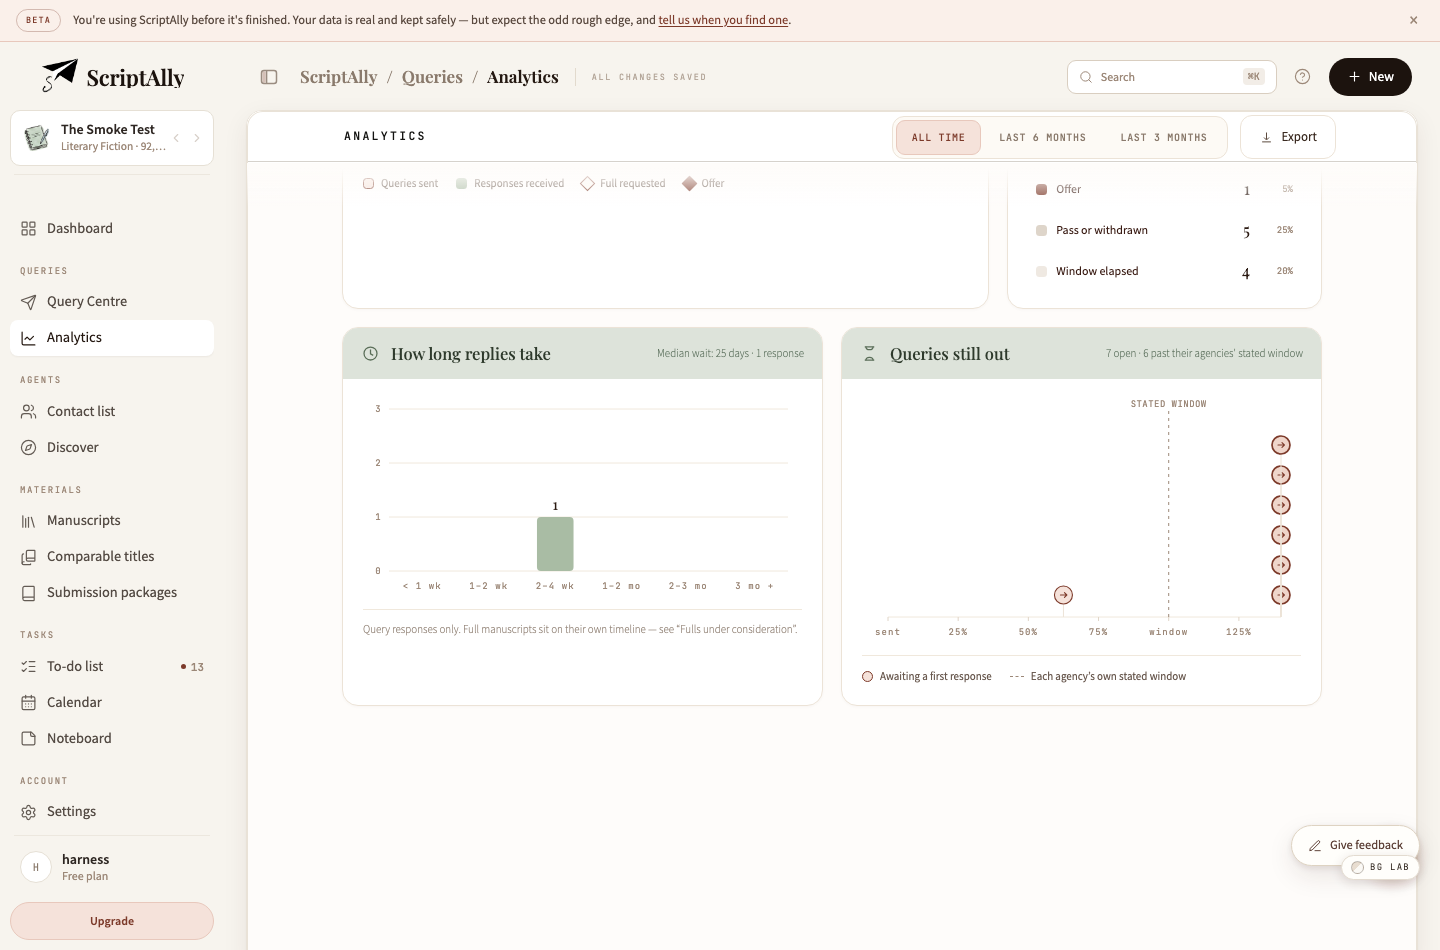
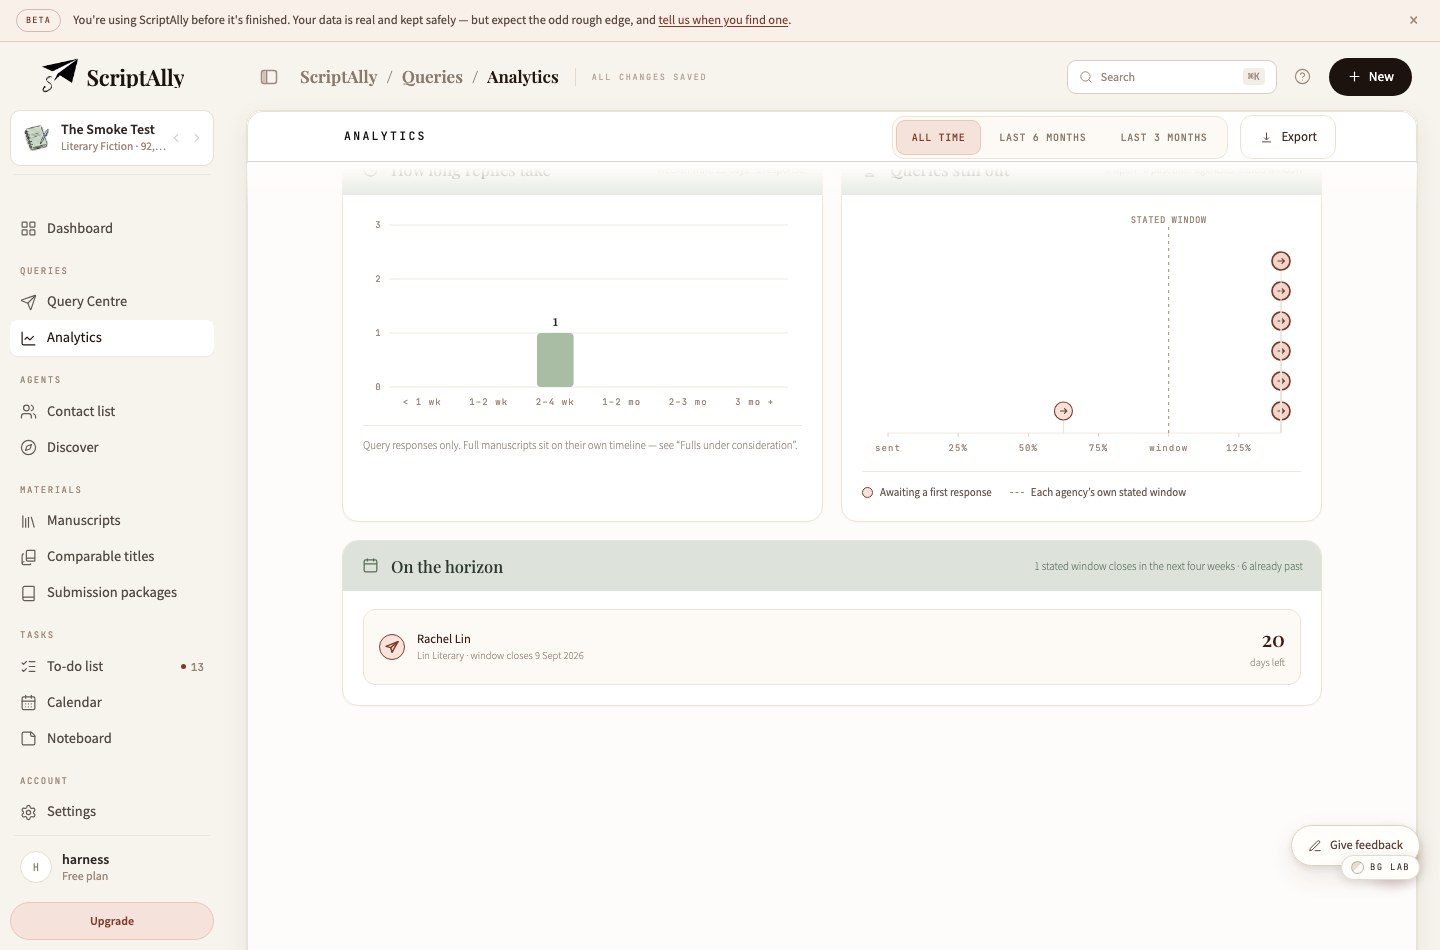
analytics: on the horizon — the stated windows closing next
A full-width panel between the charts and the fulls row: open queries whose agency's own
stated window closes within four weeks, soonest first, each naming the agent, the agency,
the closing date and the days remaining. The band note counts them and — separately —
any window already past.

This phase is BUILT rather than skipped because Step 0 found `Agent.responseTimeWeeks`
(B3). Nothing here hard-codes twelve weeks or any other threshold: a query appears only
when its agent record carries a stated window, and the date shown is that many weeks from
the send. A query whose agent states nothing has no closing date and never appears —
giving it a default would put a date on the page that no agency ever said.

⚠ IT IS A REPORT, NOT A PROMPT, and the spec asserts that. It says which windows close
and when; it never says to nudge, chase, follow up or act. Whether a closing window is
worth doing anything about depends on the agency, the manuscript and the writer's own
nerve, none of which this page can see — and all of which the To-do board already owns.

⚠ ALREADY-PAST WINDOWS ARE COUNTED APART FROM THE COUNTDOWN. Folding them in would make
"closes in 3 days" and "closed a month ago" the same kind of row; one is approaching and
the other has been and gone.

⚠ AND THE PANEL IS ABSENT WHEN IT HAS NOTHING TO SAY, rather than present and empty.
Every other panel reports on history, which exists once there are queries at all; this
[…]

diff --git a/src/components/analytics/horizon.test.tsx b/src/components/analytics/horizon.test.tsx
@@ -1,0 +1,128 @@
+/**
+ * @license
+ * SPDX-License-Identifier: Apache-2.0
+ *
+ * "On the horizon" — the one forward-looking panel.
+ */
+import { describe, it, expect } from "vitest";
+import React from "react";
+import { renderToStaticMarkup } from "react-dom/server";
+import { Agent, Query, QueryStatus } from "../../types";
+import { buildRows, HORIZON_DAYS } from "../../lib/analytics";
+import { Horizon, horizonNote, horizonWorthShowing } from "./Horizon";
+
+const NOW = new Date(2026, 7, 19, 12, 0, 0).getTime();
+const DAY = 86400000;
+const daysAgo = (n: number) => new Date(NOW - n * DAY).toISOString();
+
+let seq = 0;
+const id = () => `h${++seq}`;
+
+const agent = (over: Partial<Agent> = {}): Agent =>
+  ({ id: id(), userId: "u", name: "Alex Fenn", agency: "Fenn Literary", email: "", website: "", ...over }) as Agent;
+
+const query = (agentId: string, over: Partial<Query> = {}): Query =>
+  ({ id: id(), userId: "u", manuscriptId: "m1", agentId, packageId: "", status: QueryStatus.QUERIED,
+     personalisationNotes: "", sendMethod: "Email", ...over }) as unknown as Query;
+
+const build = (qs: Query[], agents: Agent[]) => buildRows(qs, [], agents, NOW);
+const render = (rows: ReturnType<typeof build>) =>
+  renderToStaticMarkup(<Horizon rows={rows} nowMs={NOW} />);
+
+describe("on the horizon", () => {
+  it("lists only the windows closing inside four weeks, soonest first", () => {
+    const a = agent({ responseTimeWeeks: 8 }); // a 56-day window
+    const rows = build(
+      [
+        query(a.id, { dateSent: daysAgo(35) }), // closes in 21 days
+        query(a.id, { dateSent: daysAgo(49) }), // closes in 7 days
+        query(a.id, { dateSent: daysAgo(1) }), // closes in 55 — beyond the horizon
+        query(a.id, { dateSent: daysAgo(80) }), // already past
+      ],
+      [a],
+    );
+    const html = render(rows);
+    const left = [...html.matchAll(/an-hd"><b>(\d+)<\/b>/g)].map((m) => Number(m[1]));
+    expect(left, "the horizon is not listing exactly the two closing soon").toEqual([7, 21]);
+    for (const d of left) expect(d).toBeLessThanOrEqual(HORIZON_DAYS);
+  });
+
+  it("⚠ counts the already-past apart from the countdown, and keeps them out of the list", () => {
+    /* "closes in 3 days" and "closed a month ago" are not the same kind of row. */
+    const a = agent({ responseTimeWeeks: 4 });
+    const rows = build(
+      [query(a.id, { dateSent: daysAgo(21) }), query(a.id, { dateSent: daysAgo(90) }), query(a.id, { dateSent: daysAgo(80) })],
+      [a],
+    );
+    expect([...render(rows).matchAll(/an-hcard/g)]).toHaveLength(1);
+    expect(horizonNote(rows, NOW)).toBe("1 stated window closes in the next four weeks · 2 already past");
+  });
+
+  it("⚠ invents no deadline for an agent who states no window", () => {
+    /* ⚠ NO HARD-CODED TWELVE WEEKS ANYWHERE. A query with no stated window has no closing date,
+       and giving it a default one would put a date on the page that no agency ever said. */
+    const silent = agent({ name: "No Window" });
+    const rows = build([query(silent.id, { dateSent: daysAgo(30) })], [silent]);
+    expect(render(rows)).not.toContain("an-hcard");
+    expect(horizonWorthShowing(rows, NOW)).toBe(false);
+  });
+
+  it("reads the closing date off the agent's OWN stated weeks", () => {
+    /* Two identical sends, two different agencies: the dates must differ by the stated difference
+       rather than by a constant this page chose.
+
+       ⚠ BOTH WINDOWS HAVE TO LAND INSIDE THE HORIZON FOR THIS TO TEST ANYTHING. The first version
+       used 5 and 7 weeks against a 14-day-old send, so the seven-week window closed in 35 days —
+       correctly beyond the four-week list, and the assertion failed on a fixture the panel was
+       right to exclude. 5 and 6 weeks both close inside it. */
+    const fast = agent({ name: "Quick Reader", responseTimeWeeks: 5 });
+    const slow = agent({ name: "Slow Reader", responseTimeWeeks: 6 });
+    const rows = build(
+      [query(fast.id, { dateSent: daysAgo(14) }), query(slow.id, { dateSent: daysAgo(14) })],
+      [fast, slow],
+    );
+    const left = [...render(rows).matchAll(/an-hd"><b>(\d+)<\/b>/g)].map((m) => Number(m[1]));
+    expect(left, "both windows should be inside the four-week list").toHaveLength(2);
+    expect(left).toEqual([21, 28]);
+    expect(left[1] - left[0], "the gap is not the two agencies' stated difference").toBe((6 - 5) * 7);
+  });
+
+  it("names the agent and the agency, and gives a full date", () => {
+    const a = agent({ name: "Rachel Lin", agency: "Lin Literary", responseTimeWeeks: 6 });
+    const html = render(build([query(a.id, { dateSent: daysAgo(30) })], [a]));
+    expect(html).toContain("Rachel Lin");
+    expect(html).toContain("Lin Literary");
+    /* ⚠ WITH THE YEAR. A window closing "9 Sept" is ambiguous the moment one closes next January. */
+    expect(html).toMatch(/window closes \d+ \w+ 20\d\d/);
+  });
+
+  it("⚠ tells the writer nothing to do about it", () => {
+    /* It reports which windows close and when. Whether that is worth acting on depends on the
+       agency, the manuscript and the writer's own nerve — none of which this page can see, and
+       all of which the To-do board is for. */
+    const a = agent({ responseTimeWeeks: 4 });
+    const rows = build([query(a.id, { dateSent: daysAgo(21) }), query(a.id, { dateSent: daysAgo(60) })], [a]);
+    const text = `${render(rows)} ${horizonNote(rows, NOW)}`;
+    for (const prompt of [/\bnudge\b/i, /\bchase\b/i, /\bfollow up\b/i, /\bshould\b/i, /\btime to\b/i,
+                          /\bdon't forget\b/i, /\bremember to\b/i, /\bact\b/i]) {
+      expect(text, `the horizon is prompting rather than reporting: ${prompt}`).not.toMatch(prompt);
+    }
+  });
+
+  it("is not rendered at all when it has nothing to say", () => {
+    const a = agent({ responseTimeWeeks: 12 });
+    const rows = build([query(a.id, { dateSent: daysAgo(2) })], [a]);
+    expect(horizonWorthShowing(rows, NOW)).toBe(false);
+    /* and when something HAS passed, it is worth showing even with an empty countdown */
+    const past = build([query(a.id, { dateSent: daysAgo(200) })], [a]);
+    expect(horizonWorthShowing(past, NOW)).toBe(true);
+    expect(render(past)).toContain("already passed");
+  });
+
+  it("keeps a closed query off the horizon entirely", () => {
+    /* A window only matters while you are still waiting on it. */
+    const a = agent({ responseTimeWeeks: 8 });
+    const rows = build([query(a.id, { status: QueryStatus.REJECTED, dateSent: daysAgo(49) })], [a]);
+    expect(horizonWorthShowing(rows, NOW)).toBe(false);
+  });
+});

diff --git a/src/components/analytics/Horizon.tsx b/src/components/analytics/Horizon.tsx
@@ -1,0 +1,74 @@
+/**
+ * @license
+ * SPDX-License-Identifier: Apache-2.0
+ *
+ * "On the horizon" — the one panel on this page that looks forward.
+ *
+ * ⚠ IT IS STILL A REPORT, NOT A PROMPT. It says which stated windows close in the next four weeks
+ * and when; it does not tell the writer to nudge, chase or follow up. Whether a closing window is
+ * worth acting on depends on the agency, the manuscript and the writer's own nerve, and none of
+ * those is something this page can see. Deciding what to do about it is the To-do board's job.
+ *
+ * ⚠ AND A WINDOW IS THE AGENCY'S OWN STATED FIGURE, NOT A DEADLINE THIS APP INVENTED. Nothing here
+ * hard-codes twelve weeks or any other threshold: a query appears only when its agent record
+ * carries a `responseTimeWeeks`, and the date shown is that number of weeks from the send.
+ *
+ * ⚠ ALREADY-PAST WINDOWS ARE COUNTED APART FROM THE COUNTDOWN, deliberately. Folding them in
+ * would make "closes in 3 days" and "closed a month ago" the same kind of row, and they are not:
+ * one is approaching and the other has been and gone.
+ */
+import React from "react";
+import { StatusDot } from "../StatusDot";
+import { QueryStatus } from "../../types";
+import { AnalyticsRow, HORIZON_DAYS, horizonSet } from "../../lib/analytics";
+import { shortDateYear } from "./chartPlumbing";
+
+export const Horizon: React.FC<{ rows: AnalyticsRow[]; nowMs: number }> = ({ rows, nowMs }) => {
+  const set = horizonSet(rows, nowMs);
+
+  if (set.soon.length === 0) {
+    return (
+      <div className="an-horizonempty">
+        {set.past > 0
+          ? `No stated windows close in the next four weeks. ${set.past} ${set.past === 1 ? "has" : "have"} already passed ${set.past === 1 ? "its" : "theirs"}.`
+          : "No stated windows close in the next four weeks. As one approaches, the query appears here with its date."}
+      </div>
+    );
+  }
+
+  return (
+    <div className="an-horizonrow">
+      {set.soon.map((h) => (
+        <div className="an-hcard" key={h.queryId}>
+          {/* the query is still out, so it is drawn as what it is */}
+          <StatusDot status={QueryStatus.QUERIED} overrideSize={26} decorative />
+          <div className="an-hn">
+            <b>{h.agentName}</b>
+            <i>
+              {h.agentSub ? `${h.agentSub} · ` : ""}window closes {shortDateYear(h.closesMs)}
+            </i>
+          </div>
+          <div className="an-hd">
+            <b>{h.daysLeft}</b>
+            <i>{h.daysLeft === 1 ? "day left" : "days left"}</i>
+          </div>
+        </div>
+      ))}
+    </div>
+  );
+};
+
+/** The band note: how many close soon, and — separately — how many are already past. */
+export function horizonNote(rows: AnalyticsRow[], nowMs: number): string {
+  const set = horizonSet(rows, nowMs);
+  const past = set.past ? `${set.past} already past` : "";
+  if (set.soon.length === 0) return past || `Nothing closing in the next ${HORIZON_DAYS} days`;
+  const soon = `${set.soon.length} stated ${set.soon.length === 1 ? "window closes" : "windows close"} in the next four weeks`;
+  return past ? `${soon} · ${past}` : soon;
+}
+
+/** Whether the panel has anything at all to say — a panel with nothing in it is not rendered. */
+export const horizonWorthShowing = (rows: AnalyticsRow[], nowMs: number): boolean => {
+  const set = horizonSet(rows, nowMs);
+  return set.soon.length > 0 || set.past > 0;
+};

diff --git a/src/components/analytics/analytics.css b/src/components/analytics/analytics.css
@@ -239,3 +239,20 @@
 /* legend keys drawn as the marks they describe, rather than as generic squares */
 .an-swc { width: 11px; height: 11px; border-radius: 50%; flex: none; background: #f5e2da; border: 1px solid #7c3a2a; box-sizing: border-box; }
 .an-swl { width: 14px; border-top: 1px dashed #9c8878; display: inline-block; flex: none; }
+
+/* ── on the horizon ──────────────────────────────────────────────────────────
+   Cards wrap rather than scroll: this is a short list by construction (four weeks of windows),
+   and a horizontal scroller would hide the later dates behind a gesture. */
+.an-horizonrow { display: flex; gap: 14px; flex-wrap: wrap; }
+.an-hcard {
+  flex: 1 1 190px; min-width: 190px; background: #fdfaf5; border: 1px solid #ece3d7;
+  border-radius: 12px; padding: 13px 15px; display: flex; align-items: center; gap: 12px;
+  transition: box-shadow .15s ease;
+}
+.an-hcard:hover { box-shadow: 0 3px 12px rgba(58, 28, 20, 0.08); }
+.an-hn { min-width: 0; }
+.an-hcard b { display: block; font-size: 12.5px; font-weight: 500; white-space: nowrap; overflow: hidden; text-overflow: ellipsis; }
+.an-hcard i { font-style: normal; font-size: 10.5px; color: #9a8c80; font-weight: 300; display: block; }
+.an-hd { margin-left: auto; text-align: right; flex: none; }
+.an-hd b { font-family: var(--font-serif, 'Playfair Display', serif); font-size: 21px; overflow: visible; }
+.an-horizonempty { color: #9a8c80; font-size: 12px; font-weight: 300; padding: 6px 2px; line-height: 1.6; }

diff --git a/src/components/QueryAnalytics.tsx b/src/components/QueryAnalytics.tsx
@@ -42,6 +42,7 @@ import { SendingChart, SENDING_NOTE } from "./analytics/SendingChart";
 import { StatusDonut } from "./analytics/StatusDonut";
 import { ReplyHistogram, histogramNote } from "./analytics/ReplyHistogram";
 import { AgingChart, agingNote } from "./analytics/AgingChart";
+import { Horizon, horizonNote, horizonWorthShowing } from "./analytics/Horizon";
 import {
   AnalyticsRange,
   AnalyticsRow,
@@ -182,6 +183,18 @@ export const QueryAnalytics: React.FC = () => {
                 <AgingChart rows={rows} />
               </Panel>
             </PanelRow>
+
+            {/* ⚠ THE PANEL IS ABSENT WHEN IT HAS NOTHING TO SAY, rather than present and empty.
+                Every other panel on this page reports on history, which always exists once there
+                are queries; this one reports on the next four weeks, which can genuinely be
+                empty — and a full-width band saying "nothing" is a worse answer than no band. */}
+            {horizonWorthShowing(rows, nowMs) ? (
+              <PanelRow>
+                <Panel icon="calendar" title="On the horizon" span={12} note={horizonNote(rows, nowMs)}>
+                  <Horizon rows={rows} nowMs={nowMs} />
+                </Panel>
+              </PanelRow>
+            ) : null}
           </>
         )}
       </WorkspacePageGrid>
